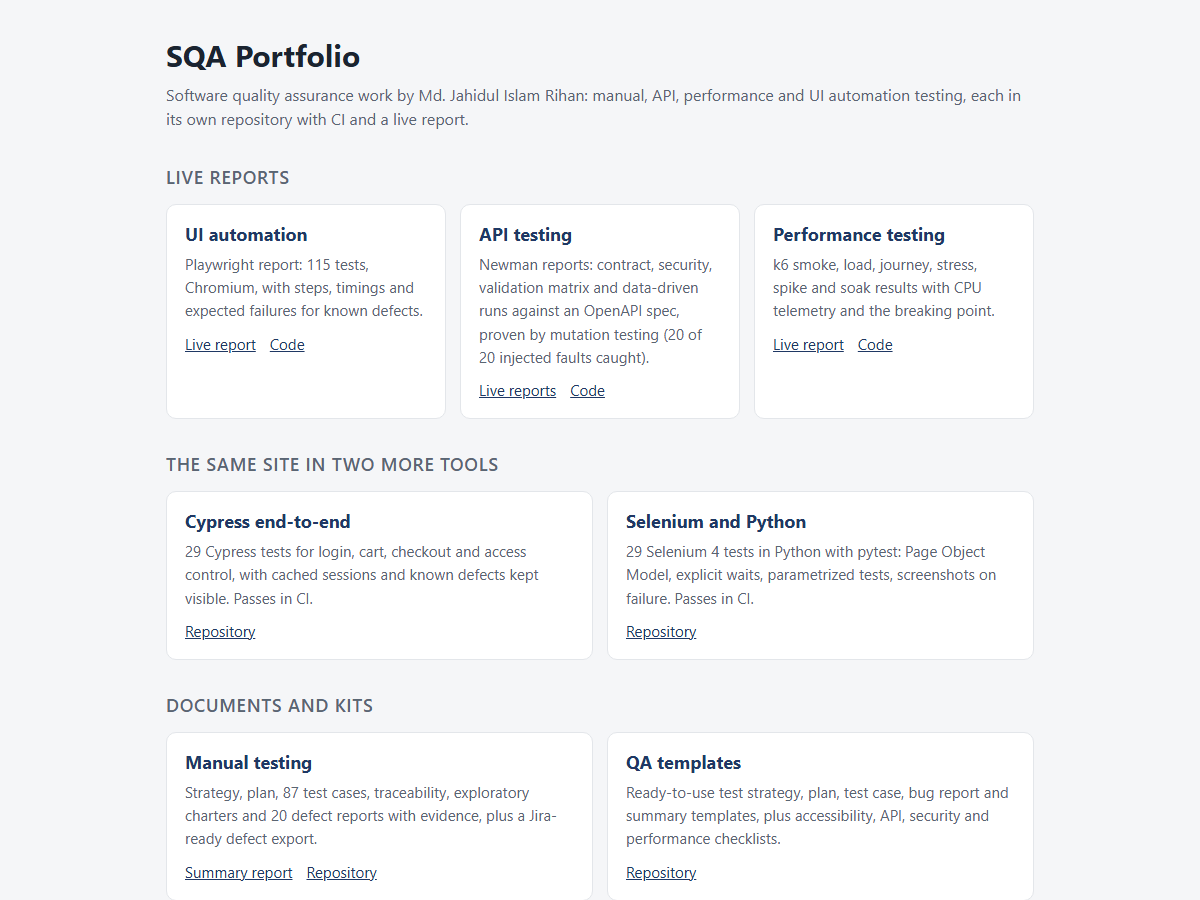
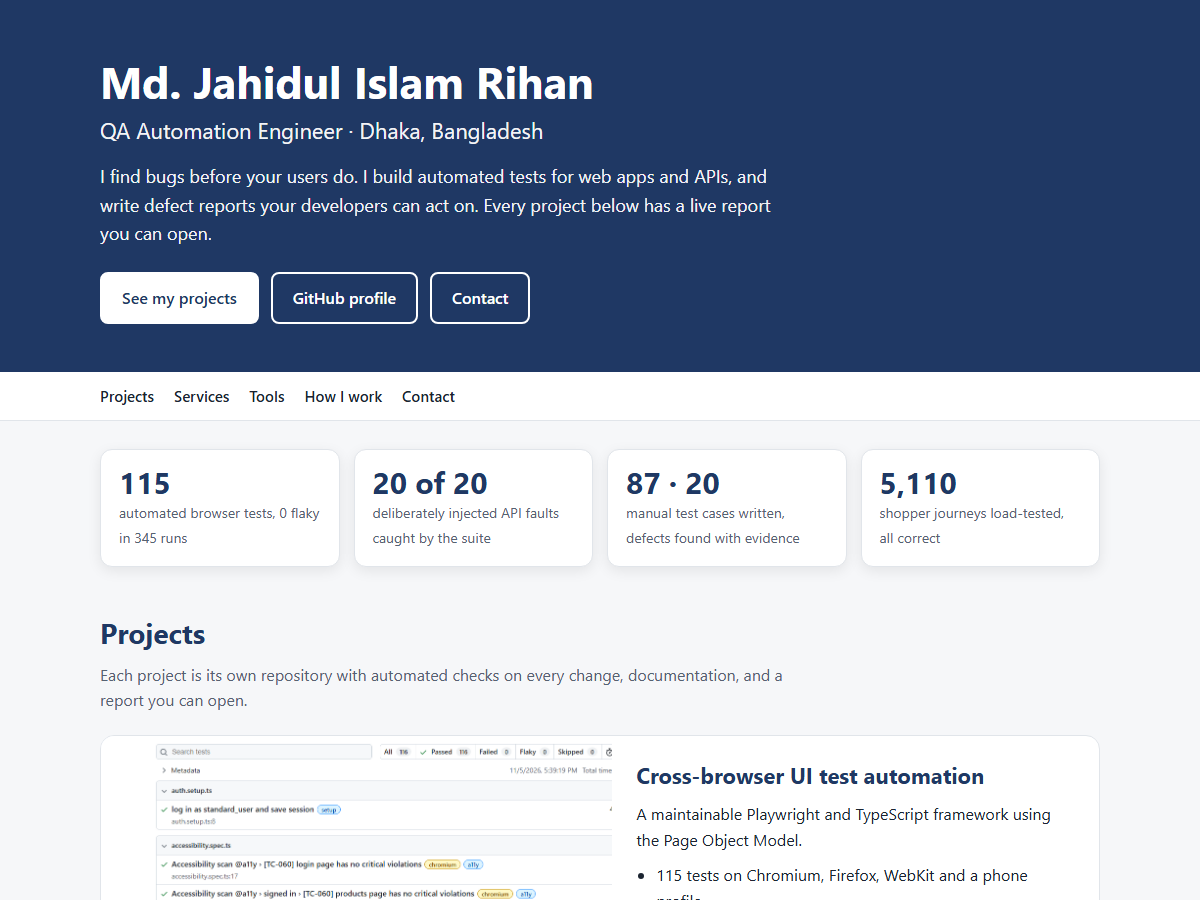
Portfolio site: one-page portfolio with projects, screenshots, services, tools and contact; refreshed hub screenshot

diff --git a/.github/pages/index.html b/.github/pages/index.html
@@ -3,80 +3,239 @@
 <head>
 <meta charset="utf-8">
 <meta name="viewport" content="width=device-width, initial-scale=1">
-<title>SQA Portfolio</title>
+<title>Md. Jahidul Islam Rihan | QA Automation Engineer</title>
+<meta name="description" content="QA Automation Engineer for web apps and APIs: Playwright, Cypress, Selenium, Postman API testing, k6 performance testing and clear defect reports. Projects with live reports.">
+<meta property="og:title" content="Md. Jahidul Islam Rihan | QA Automation Engineer">
+<meta property="og:description" content="Automated tests for web apps and APIs, with live reports you can open: Playwright, Cypress, Selenium, Postman, k6.">
+<meta property="og:type" content="website">
+<meta property="og:url" content="https://jahidulislamrihan26.github.io/sqa-portfolio/">
+<meta property="og:image" content="https://jahidulislamrihan26.github.io/sqa-portfolio/images/playwright-report.png">
 <style>
-  :root { --bg:#f5f6f8; --card:#ffffff; --ink:#1b2430; --muted:#5a6573; --accent:#1f3864; --line:#e3e6ea; }
-  @media (prefers-color-scheme: dark) { :root { --bg:#10151c; --card:#18202a; --ink:#e8edf3; --muted:#9aa7b6; --accent:#8fb4ff; --line:#2a3542; } }
+  :root { --bg:#f6f7f9; --card:#ffffff; --ink:#1b2430; --muted:#566272; --accent:#1f3864; --link:#0b5cad; --line:#e1e5ea; --band:#1f3864; --bandink:#ffffff; --chip:#eaf0fb; }
+  @media (prefers-color-scheme: dark) { :root { --bg:#0f141b; --card:#171f29; --ink:#e8edf3; --muted:#a3afbd; --accent:#9dbcff; --link:#8fb4ff; --line:#2a3542; --band:#16233d; --bandink:#f2f6fc; --chip:#1f2c42; } }
   * { box-sizing: border-box; }
-  body { margin:0; background:var(--bg); color:var(--ink); font:16px/1.55 system-ui, Segoe UI, Arial, sans-serif; }
-  main { max-width: 900px; margin: 0 auto; padding: 32px 16px 56px; }
-  h1 { margin: 0 0 4px; font-size: 30px; }
-  h2 { margin: 32px 0 12px; font-size: 18px; color: var(--muted); font-weight: 600; text-transform: uppercase; letter-spacing: .04em; }
-  p.lead { margin: 0 0 8px; color: var(--muted); }
-  .grid { display: grid; gap: 14px; grid-template-columns: repeat(auto-fit, minmax(260px, 1fr)); }
-  .card { background:var(--card); border:1px solid var(--line); border-radius:10px; padding:16px 18px; }
-  .card h3 { margin:0 0 4px; font-size:18px; color:var(--accent); }
-  .card p { margin:0 0 10px; color:var(--muted); font-size:15px; }
-  .card .links { display:flex; gap:14px; flex-wrap:wrap; font-size:15px; }
-  .card a { color:var(--accent); }
-  a:focus-visible { outline: 2px solid var(--accent); outline-offset: 2px; }
-  .meta { margin-top: 28px; color: var(--muted); font-size: 14px; }
-  .meta a { color: var(--accent); }
+  html { scroll-behavior: smooth; }
+  body { margin:0; background:var(--bg); color:var(--ink); font:16px/1.6 system-ui, "Segoe UI", Arial, sans-serif; }
+  a { color:var(--link); }
+  a:focus-visible, button:focus-visible { outline:3px solid var(--link); outline-offset:2px; border-radius:3px; }
+  .skip { position:absolute; left:-999px; top:8px; background:var(--card); color:var(--ink); padding:8px 12px; border-radius:6px; z-index:10; }
+  .skip:focus { left:8px; }
+  .wrap { max-width:1040px; margin:0 auto; padding:0 20px; }
+  header.hero { background:var(--band); color:var(--bandink); padding:56px 0 48px; }
+  header.hero h1 { margin:0 0 6px; font-size:clamp(30px,5vw,44px); line-height:1.15; }
+  header.hero .role { font-size:clamp(18px,2.6vw,22px); margin:0 0 14px; opacity:.95; }
+  header.hero p.lead { max-width:680px; margin:0 0 24px; font-size:18px; opacity:.95; }
+  .btns { display:flex; flex-wrap:wrap; gap:12px; }
+  .btn { display:inline-block; padding:11px 20px; border-radius:8px; font-weight:600; text-decoration:none; border:2px solid #ffffff; }
+  .btn.primary { background:#ffffff; color:#1f3864; }
+  .btn.ghost { color:#ffffff; background:transparent; }
+  .btn:focus-visible { outline:3px solid #ffd966; }
+  nav.top { background:var(--card); border-bottom:1px solid var(--line); position:sticky; top:0; z-index:5; }
+  nav.top ul { list-style:none; margin:0; padding:0; display:flex; gap:20px; flex-wrap:wrap; }
+  nav.top a { display:block; padding:12px 0; text-decoration:none; font-weight:600; font-size:15px; color:var(--ink); }
+  nav.top a:hover { color:var(--link); text-decoration:underline; }
+  section { padding:44px 0 8px; }
+  h2 { margin:0 0 6px; font-size:28px; color:var(--accent); }
+  p.sub { margin:0 0 22px; color:var(--muted); max-width:720px; }
+  .stats { display:grid; grid-template-columns:repeat(auto-fit,minmax(220px,1fr)); gap:14px; margin-top:28px; }
+  .stat { background:var(--card); border:1px solid var(--line); border-radius:12px; padding:16px 18px; box-shadow:0 4px 14px rgba(0,0,0,.08); }
+  .stat b { display:block; font-size:30px; color:var(--accent); line-height:1.1; }
+  .stat span { color:var(--muted); font-size:14px; }
+  .grid { display:grid; gap:16px; grid-template-columns:repeat(auto-fit,minmax(230px,1fr)); }
+  .card { background:var(--card); border:1px solid var(--line); border-radius:12px; padding:18px 20px; }
+  .card h3 { margin:0 0 6px; font-size:18px; color:var(--accent); }
+  .card p { margin:0; color:var(--muted); font-size:15px; }
+  .project { display:grid; grid-template-columns:1fr; gap:0; background:var(--card); border:1px solid var(--line); border-radius:14px; overflow:hidden; margin-bottom:22px; }
+  @media (min-width:820px) { .project { grid-template-columns:1.05fr 1fr; } .project.flip .shot { order:2; } }
+  .shot { background:var(--chip); display:flex; align-items:flex-start; }
+  .shot img { display:block; width:100%; height:auto; }
+  @media (min-width:820px) { .shot img { height:100%; object-fit:cover; object-position:top left; } }
+  .shot.text { align-items:center; padding:24px; }
+  .shot.text p { margin:0; color:var(--muted); font-size:15px; }
+  .body { padding:22px 24px; }
+  .body h3 { margin:0 0 8px; font-size:22px; color:var(--accent); }
+  .body p { margin:0 0 10px; }
+  .body ul { margin:0 0 14px; padding-left:20px; }
+  .body li { margin-bottom:4px; }
+  .tags { display:flex; flex-wrap:wrap; gap:6px; margin:0 0 14px; padding:0; list-style:none; }
+  .tags li { background:var(--chip); color:var(--accent); border-radius:999px; padding:2px 11px; font-size:13px; font-weight:600; margin:0; }
+  .links { display:flex; flex-wrap:wrap; gap:16px; font-weight:600; }
+  .tools { display:grid; grid-template-columns:repeat(auto-fit,minmax(260px,1fr)); gap:14px; }
+  .tools .card h3 { font-size:16px; }
+  ol.steps { counter-reset:s; list-style:none; margin:0; padding:0; display:grid; gap:16px; grid-template-columns:repeat(auto-fit,minmax(250px,1fr)); }
+  ol.steps li { counter-increment:s; background:var(--card); border:1px solid var(--line); border-radius:12px; padding:18px 20px; }
+  ol.steps li::before { content:counter(s); display:inline-block; width:30px; height:30px; line-height:30px; text-align:center; border-radius:50%; background:var(--accent); color:var(--bg); font-weight:700; margin-bottom:8px; }
+  ol.steps h3 { margin:0 0 4px; font-size:17px; color:var(--accent); }
+  ol.steps p { margin:0; color:var(--muted); font-size:15px; }
+  .contact { background:var(--band); color:var(--bandink); border-radius:16px; padding:32px 28px; margin:44px 0 0; }
+  .contact h2 { color:var(--bandink); }
+  .contact p { margin:0 0 16px; max-width:640px; opacity:.95; }
+  .contact a.btn { margin-right:10px; margin-bottom:8px; }
+  footer { padding:26px 0 40px; color:var(--muted); font-size:14px; }
 </style>
 </head>
 <body>
+<a class="skip" href="#projects">Skip to projects</a>
+
+<header class="hero">
+  <div class="wrap">
+    <h1>Md. Jahidul Islam Rihan</h1>
+    <p class="role">QA Automation Engineer · Dhaka, Bangladesh</p>
+    <p class="lead">I find bugs before your users do. I build automated tests for web apps and APIs, and write defect reports your developers can act on. Every project below has a live report you can open.</p>
+    <div class="btns">
+      <a class="btn primary" href="#projects">See my projects</a>
+      <a class="btn ghost" href="https://github.com/jahidulislamrihan26">GitHub profile</a>
+      <a class="btn ghost" href="#contact">Contact</a>
+    </div>
+  </div>
+</header>
+
+<nav class="top" aria-label="Sections">
+  <div class="wrap">
+    <ul>
+      <li><a href="#projects">Projects</a></li>
+      <li><a href="#services">Services</a></li>
+      <li><a href="#tools">Tools</a></li>
+      <li><a href="#process">How I work</a></li>
+      <li><a href="#contact">Contact</a></li>
+    </ul>
+  </div>
+</nav>
+
 <main>
-  <h1>SQA Portfolio</h1>
-  <p class="lead">Software quality assurance work by Md. Jahidul Islam Rihan: manual, API, performance and UI automation testing, each in its own repository with CI and a live report.</p>
+  <div class="wrap">
+    <div class="stats" role="list" aria-label="Results in numbers">
+      <div class="stat" role="listitem"><b>115</b><span>automated browser tests, 0 flaky in 345 runs</span></div>
+      <div class="stat" role="listitem"><b>20 of 20</b><span>deliberately injected API faults caught by the suite</span></div>
+      <div class="stat" role="listitem"><b>87 · 20</b><span>manual test cases written, defects found with evidence</span></div>
+      <div class="stat" role="listitem"><b>5,110</b><span>shopper journeys load-tested, all correct</span></div>
+    </div>
 
-  <h2>Live reports</h2>
-  <div class="grid">
-    <div class="card">
-      <h3>UI automation</h3>
-      <p>Playwright report: 115 tests, Chromium, with steps, timings and expected failures for known defects.</p>
-      <div class="links"><a href="https://jahidulislamrihan26.github.io/playwright-ui-automation-pom/">Live report</a><a href="https://github.com/jahidulislamrihan26/playwright-ui-automation-pom">Code</a></div>
-    </div>
-    <div class="card">
-      <h3>API testing</h3>
-      <p>Newman reports: contract, security, validation matrix and data-driven runs against an OpenAPI spec, proven by mutation testing (20 of 20 injected faults caught).</p>
-      <div class="links"><a href="https://jahidulislamrihan26.github.io/api-testing-newman-openapi/">Live reports</a><a href="https://github.com/jahidulislamrihan26/api-testing-newman-openapi">Code</a></div>
-    </div>
-    <div class="card">
-      <h3>Performance testing</h3>
-      <p>k6 smoke, load, journey, stress, spike and soak results with CPU telemetry and the breaking point.</p>
-      <div class="links"><a href="https://jahidulislamrihan26.github.io/k6-performance-testing/">Live report</a><a href="https://github.com/jahidulislamrihan26/k6-performance-testing">Code</a></div>
-    </div>
+    <section id="projects" aria-labelledby="h-projects">
+      <h2 id="h-projects">Projects</h2>
+      <p class="sub">Each project is its own repository with automated checks on every change, documentation, and a report you can open.</p>
+
+      <article class="project">
+        <div class="shot"><img src="images/playwright-report.png" width="1200" height="800" alt="Playwright test report: 116 results, all passed, 0 failed, 0 flaky" loading="lazy"></div>
+        <div class="body">
+          <h3>Cross-browser UI test automation</h3>
+          <p>A maintainable Playwright and TypeScript framework using the Page Object Model.</p>
+          <ul>
+            <li>115 tests on Chromium, Firefox, WebKit and a phone profile</li>
+            <li>94% of 87 manual test cases automated and traced</li>
+            <li>Keyboard and accessibility checks; known site bugs kept as expected-failure tests</li>
+            <li>0 flaky tests in 345 runs, run on every code change</li>
+          </ul>
+          <ul class="tags" aria-label="Skills"><li>Playwright</li><li>TypeScript</li><li>Page Object Model</li><li>CI</li></ul>
+          <div class="links"><a href="https://jahidulislamrihan26.github.io/playwright-ui-automation-pom/">Live report</a><a href="https://github.com/jahidulislamrihan26/playwright-ui-automation-pom">Code</a></div>
+        </div>
+      </article>
+
+      <article class="project flip">
+        <div class="shot"><img src="images/api-report.png" width="1200" height="820" alt="API test report with a note explaining that the failed checks are documented defects" loading="lazy"></div>
+        <div class="body">
+          <h3>API test suite from an OpenAPI spec</h3>
+          <p>A Postman and Newman suite for a booking API, proven by mutation testing.</p>
+          <ul>
+            <li>74 requests and 186 assertions: status codes, response structure, login and permissions, bad inputs, security</li>
+            <li>13 API defects documented</li>
+            <li>20 deliberately injected faults, all caught by the suite</li>
+            <li>Test data cleans up after itself; secrets removed from reports</li>
+          </ul>
+          <ul class="tags" aria-label="Skills"><li>Postman</li><li>Newman</li><li>OpenAPI</li><li>API testing</li></ul>
+          <div class="links"><a href="https://jahidulislamrihan26.github.io/api-testing-newman-openapi/">Live reports</a><a href="https://github.com/jahidulislamrihan26/api-testing-newman-openapi">Code</a></div>
+        </div>
+      </article>
+
+      <article class="project">
+        <div class="shot"><img src="images/manual-evidence.png" width="1280" height="720" alt="Evidence screenshot: the shop opens with only a forged session cookie and no password" loading="lazy"></div>
+        <div class="body">
+          <h3>Manual testing and defect reports</h3>
+          <p>Risk-based strategy, test cases and clear bug reports. The screenshot is evidence from defect BUG-013: the shop opens with a forged cookie and no password.</p>
+          <ul>
+            <li>87 test cases, a traceability matrix and exploratory sessions</li>
+            <li>20 defects with steps and screenshots, including a login bypass and a cart keyboard users cannot open</li>
+            <li>Summary report with a release recommendation, and a Jira-ready defect export</li>
+          </ul>
+          <ul class="tags" aria-label="Skills"><li>Manual testing</li><li>Test design</li><li>Defect reporting</li><li>Exploratory testing</li></ul>
+          <div class="links"><a href="https://github.com/jahidulislamrihan26/manual-testing-saucedemo/blob/main/docs/05-test-summary-report.md">Summary report</a><a href="https://github.com/jahidulislamrihan26/manual-testing-saucedemo">Code</a></div>
+        </div>
+      </article>
+
+      <article class="project flip">
+        <div class="shot"><img src="images/k6-report.png" width="1300" height="800" alt="k6 performance report: smoke, load, journey, stress, spike and soak results with latency and error rates" loading="lazy"></div>
+        <div class="body">
+          <h3>Load and stress testing a real shop</h3>
+          <p>k6 tests against a real Node.js and SQLite shop, with server measurements that show the cause of slowdowns.</p>
+          <ul>
+            <li>5,110 shopper journeys, all correct</li>
+            <li>Healthy to at least 900 requests per second; slows before it refuses connections</li>
+            <li>20 SQL checks on the database found that orders never reduce stock</li>
+          </ul>
+          <ul class="tags" aria-label="Skills"><li>k6</li><li>Load testing</li><li>SQL</li><li>Performance</li></ul>
+          <div class="links"><a href="https://jahidulislamrihan26.github.io/k6-performance-testing/">Live report</a><a href="https://github.com/jahidulislamrihan26/k6-performance-testing">Code</a></div>
+        </div>
+      </article>
+
+      <article class="project">
+        <div class="shot text"><p>Both suites test the same web shop as the Playwright project, so the three tools can be compared on one application. Each runs on every code change and keeps one known login bug as an expected failure.</p></div>
+        <div class="body">
+          <h3>The same site in Cypress and in Selenium</h3>
+          <p>Two more UI suites to show range across the tools clients ask for.</p>
+          <ul>
+            <li>29 Cypress tests with cached logins and page helpers</li>
+            <li>29 Selenium 4 tests in Python with pytest, page objects and explicit waits</li>
+            <li>Screenshots saved for every failure</li>
+          </ul>
+          <ul class="tags" aria-label="Skills"><li>Cypress</li><li>Selenium</li><li>Python</li><li>pytest</li></ul>
+          <div class="links"><a href="https://github.com/jahidulislamrihan26/cypress-e2e-saucedemo">Cypress code</a><a href="https://github.com/jahidulislamrihan26/selenium-pytest-saucedemo">Selenium code</a></div>
+        </div>
+      </article>
+    </section>
+
+    <section id="services" aria-labelledby="h-services">
+      <h2 id="h-services">What I can do for you</h2>
+      <p class="sub">Small, clearly scoped starts work best.</p>
+      <div class="grid">
+        <div class="card"><h3>UI test automation</h3><p>Tests for your key user journeys in Playwright, Cypress or Selenium, running in your CI on every change.</p></div>
+        <div class="card"><h3>API testing</h3><p>Status codes, response structure, login and permissions, and bad-input cases, with a written list of every defect.</p></div>
+        <div class="card"><h3>Performance testing</h3><p>Load and stress tests with a plain answer to how many users it can take and what breaks first.</p></div>
+        <div class="card"><h3>Manual and exploratory testing</h3><p>A few days of testing before a release, then a ranked report of bugs with steps and evidence.</p></div>
+      </div>
+    </section>
+
+    <section id="tools" aria-labelledby="h-tools">
+      <h2 id="h-tools">Tools</h2>
+      <div class="tools">
+        <div class="card"><h3>UI automation</h3><p>Playwright, Cypress, Selenium, TypeScript, JavaScript, Python, pytest, axe-core</p></div>
+        <div class="card"><h3>API and data</h3><p>Postman, Newman, OpenAPI, JSON Schema, SQL</p></div>
+        <div class="card"><h3>Performance</h3><p>k6, CPU and memory measurements</p></div>
+        <div class="card"><h3>Process</h3><p>Git, GitHub Actions, test plans, traceability, defect reports, Jira import files</p></div>
+      </div>
+    </section>
+
+    <section id="process" aria-labelledby="h-process">
+      <h2 id="h-process">How I work</h2>
+      <ol class="steps">
+        <li><h3>You describe the app</h3><p>What it does, how often you release, and what worries you most.</p></li>
+        <li><h3>I propose a clear scope</h3><p>What will be tested, what you will receive, and a delivery date.</p></li>
+        <li><h3>You get evidence, not opinions</h3><p>Regular updates, every defect with steps and a screenshot, and everything in a repository you own.</p></li>
+      </ol>
+    </section>
+
+    <section id="contact" aria-labelledby="h-contact" style="padding-top:0">
+      <div class="contact">
+        <h2 id="h-contact">Let's talk about your app</h2>
+        <p>Send a few lines about your project: what it does, what you release, and what worries you most. I reply with a clear scope and a delivery date.</p>
+        <a class="btn primary" href="mailto:jahidulrihan3@gmail.com">jahidulrihan3@gmail.com</a>
+        <a class="btn ghost" href="https://github.com/jahidulislamrihan26">GitHub</a>
+      </div>
+    </section>
   </div>
-
-  <h2>The same site in two more tools</h2>
-  <div class="grid">
-    <div class="card">
-      <h3>Cypress end-to-end</h3>
-      <p>29 Cypress tests for login, cart, checkout and access control, with cached sessions and known defects kept visible. Passes in CI.</p>
-      <div class="links"><a href="https://github.com/jahidulislamrihan26/cypress-e2e-saucedemo">Repository</a></div>
-    </div>
-    <div class="card">
-      <h3>Selenium and Python</h3>
-      <p>29 Selenium 4 tests in Python with pytest: Page Object Model, explicit waits, parametrized tests, screenshots on failure. Passes in CI.</p>
-      <div class="links"><a href="https://github.com/jahidulislamrihan26/selenium-pytest-saucedemo">Repository</a></div>
-    </div>
-  </div>
-
-  <h2>Documents and kits</h2>
-  <div class="grid">
-    <div class="card">
-      <h3>Manual testing</h3>
-      <p>Strategy, plan, 87 test cases, traceability, exploratory charters and 20 defect reports with evidence, plus a Jira-ready defect export.</p>
-      <div class="links"><a href="https://github.com/jahidulislamrihan26/manual-testing-saucedemo/blob/main/docs/05-test-summary-report.md">Summary report</a><a href="https://github.com/jahidulislamrihan26/manual-testing-saucedemo">Repository</a></div>
-    </div>
-    <div class="card">
-      <h3>QA templates</h3>
-      <p>Ready-to-use test strategy, plan, test case, bug report and summary templates, plus accessibility, API, security and performance checklists.</p>
-      <div class="links"><a href="https://github.com/jahidulislamrihan26/qa-templates">Repository</a></div>
-    </div>
-  </div>
-
-  <p class="meta"><a href="https://github.com/jahidulislamrihan26/sqa-portfolio">GitHub: the hub repository</a> explains how the projects connect.</p>
 </main>
+
+<footer>
+  <div class="wrap">Md. Jahidul Islam Rihan · QA Automation Engineer · Dhaka, Bangladesh. Every number on this page comes from a test run you can open above.</div>
+</footer>
 </body>
 </html>
